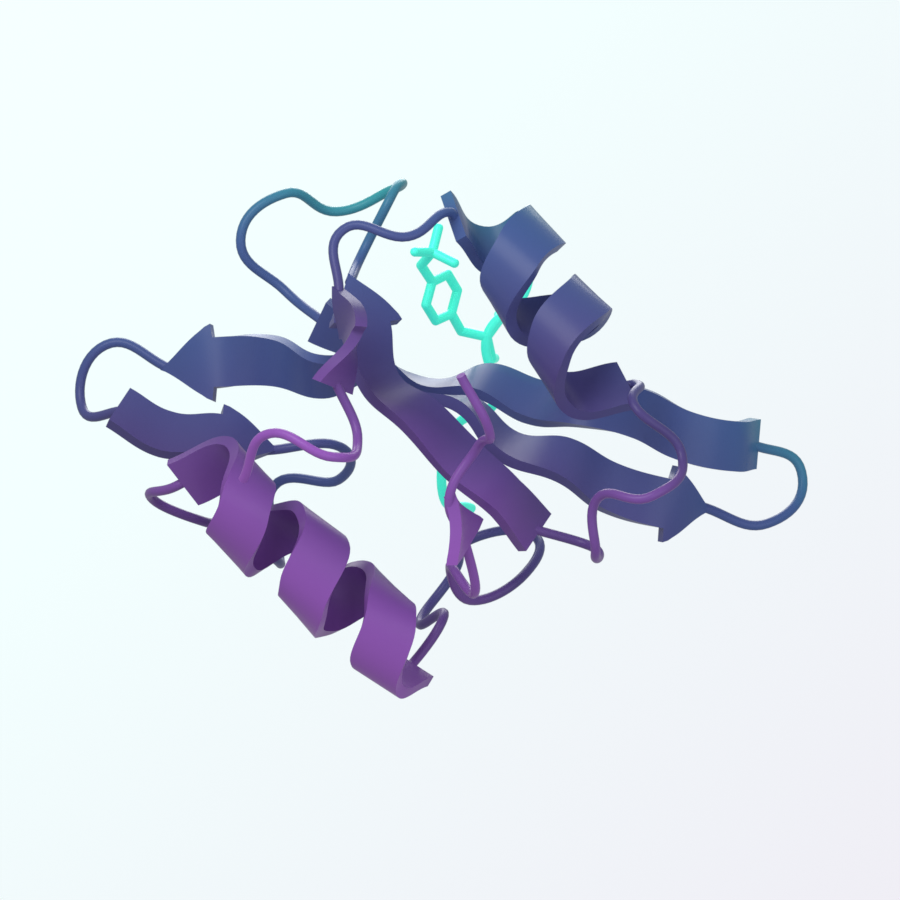
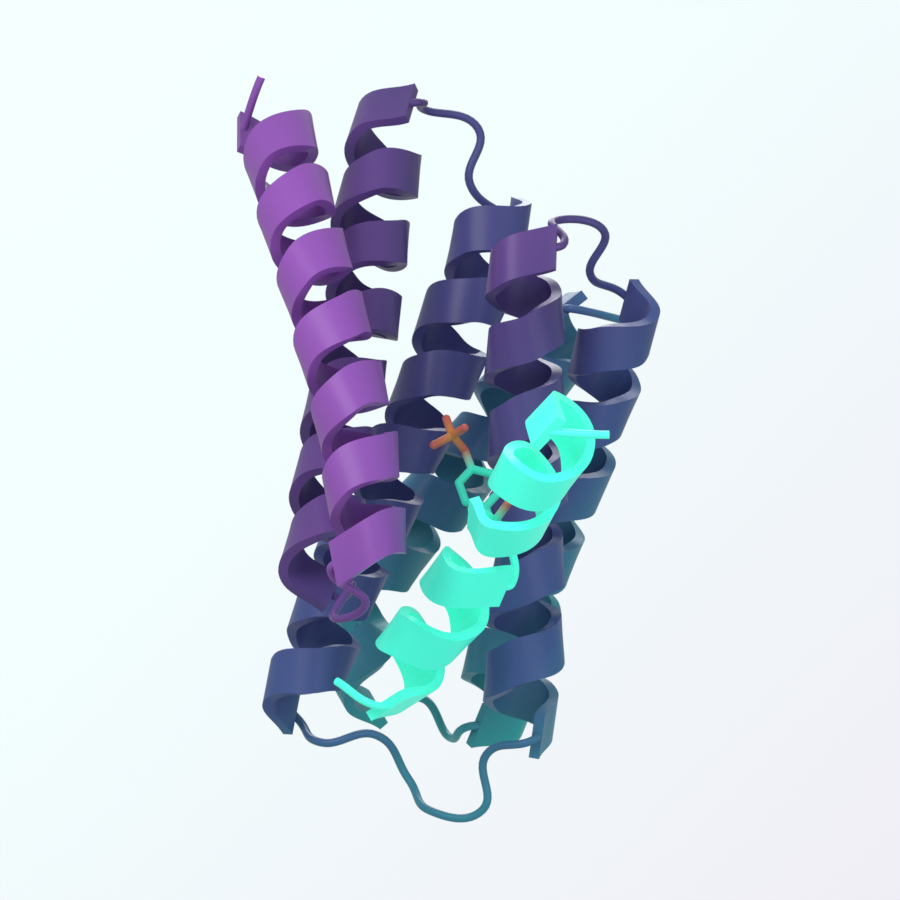
docs(presets): show Northern Nights variants in the selected STAT orientation

Changed region(s): [[0.0622, 0.0933, 0.9022, 0.9333]]

diff --git a/docs/reference-presets.md b/docs/reference-presets.md
@@ -1,6 +1,6 @@
 # Reference presets
 
-Eight additional JSON presets extend the existing renderer. The six original preset identifiers and JSON files remain unchanged. PNG remains the default; `--save-blend` or `output.save_blend=true` explicitly requests a scene. The [example gallery metadata](../examples/presets/gallery.json) shows all 16 choices using actual local Blender renders of public structures.
+Eight additional JSON presets extend the existing renderer. The six original preset identifiers and JSON files remain unchanged. PNG remains the default; `--save-blend` or `output.save_blend=true` explicitly requests a scene. The [example gallery metadata](../examples/presets/gallery.json) shows all 17 choices using actual local Blender renders; source provenance is recorded for each example.
 
 | Reference | Preset / alias | Example | Match and scope |
 |---|---|---|---|
@@ -30,7 +30,7 @@ blender-render render structure.cif --preset neon_duplex_hero --no-preserve-view
 blender-render render pose.pse --style-json edited-style.json -o custom.png
 ```
 
-Named presets preserve the input pose by default. `--no-preserve-view` selects the preset's authored camera; explicit camera overrides and full JSON retain their requested settings. Some styles use `direction_source=pymol`, so the initial orientation still matters. The gallery metadata stores the public example view and exact render dimensions; a preset alone cannot imply the same pose for an unrelated structure. Full JSON and preset-plus-overrides share the same resolver. Objects merge recursively; arrays such as `styles` replace in full.
+Named presets preserve the input pose by default. `--no-preserve-view` selects the preset's authored camera; explicit camera overrides and full JSON retain their requested settings. Some styles use `direction_source=pymol`, so the initial orientation still matters. The gallery metadata stores each example view and exact render dimensions; a preset alone cannot imply the same pose for an unrelated structure. Full JSON and preset-plus-overrides share the same resolver. Objects merge recursively; arrays such as `styles` replace in full.
 
 The same installed PyMOL is used throughout. Its `pymol2` API creates isolated instances for file export; rendering from the running PyMOL application uses `cmd` directly. These changes do not add a second PyMOL dependency or replace the application's session.
 
@@ -58,9 +58,10 @@ All controls use the existing schema and scene builder. Unsupported keys, zero g
 ## Evidence
 
 See [local validation](validation.md) for checks executed on this branch.
-[Gallery metadata](../examples/presets/gallery.json) retains the upstream public
-coordinate URLs/hashes, preset hashes, views, sizes and image hashes. Those gallery
-assets are historical examples, not newly verified renders from this branch.
+[Gallery metadata](../examples/presets/gallery.json) retains source provenance,
+preset hashes, views, sizes and image hashes. Public examples include coordinate
+URLs/hashes; the user-selected STAT previews exclude their molecular source files.
+Validation dates and scope are recorded separately for each addition.
 
 Use the configured Molecular Nodes environment and pinned CCD. A successful
 local render does not by itself verify image display in Claude or Codex.
@@ -91,28 +92,45 @@ The gallery preserves the approved 840×650, 128-sample render. The preset is
 available as `cyan_candy_mesh` or `builtin/cyan_candy_mesh`; it is distinct from
 any personal `user/cyan_candy_mesh` copy.
 
-## Northern Nights
+## Northern Nights: bright ribbons and dark cutaway
 
-`northern_nights` adapts the Northern Nights paper-render look: satin teal,
-midnight-blue, violet and purple ribbon cartoons, luminous mint peptide/sticks,
-and a pale mint/lavender diagonal background. The gallery uses public **1SPS**,
-with its saved example pose; no private research structure or animation is included.
+Two separate presets share the Northern Nights palette and element coloring:
+
+- `northern_nights`: satin teal/blue/violet protein ribbons and a luminous mint
+  peptide on a bright mint/lavender background.
+- `northern_nights_cutaway`: the same molecular colors with a protein surface
+  cutaway, nearby residue sticks and a black background.
+
+The README previews use the user-selected STAT example and the viewing direction
+from its supplied rocking animation, fitted to show the complete complex rather
+than the reference close-up crop. Molecular coordinates, sessions, source
+animations and private paths are not included. The previews replace the earlier
+1SPS demonstration; no public PDB identity is asserted for the selected example.
 
 ```sh
-blender-render render prepared-pose.pse --preset northern_nights -o northern-nights.png
-# Optional rigid turntable, not a molecular trajectory:
-blender-render render prepared-pose.pse --preset northern_nights --animation 360 -o northern-nights.gif
+blender-render render prepared-pose.pse --preset northern_nights -o bright.png
+blender-render render prepared-pose.pse --preset northern_nights_cutaway -o cutaway.png
 ```
 
-In PyMOL, use `blender_render preset=northern_nights`. Chain D is the mint peptide
-in the public example; other protein chains receive the teal-to-purple spatial
-gradient. Phosphoresidues PTR/SEP/TPO are also shown as mint sticks, excluding
-backbone N/C/O. For other complexes, edit both cartoon selection queries to
-choose the intended peptide chain. Colors are encoded for the renderer's linear
-shader inputs; they need not resemble the display palette as hexadecimal swatches.
+In PyMOL, use `blender_render preset=northern_nights` or
+`blender_render preset=northern_nights_cutaway`. Chain B is the mint peptide;
+other protein chains receive the spatial teal-to-purple gradient. Adapt the
+cartoon and surface selections together for another complex. The cutaway needs
+a valid ligand/phosphoresidue anchor and suitable pocket dimensions; it is not
+an automatic identification of a binding site. It cuts only the surface, keeping
+the peptide cartoon intact. A 5 Å neighborhood selects complete pocket residues.
 
-This portable preset uses the shared renderer only. Its spatial gradient and
-native glow approximate the original residue-by-residue coloring and custom
-Gaussian emission halo. It does not add the original scene's computed hydrogen
-bond guides, custom atom-color emission, or paper-specific topology patches.
-It is a reusable style adaptation, not an exact recreation of that scene.
+PTR/SEP/TPO sidechain sticks include Cα but exclude backbone N/C/O. Carbon is
+mint, nitrogen blue, oxygen red, sulfur gold and phosphorus orange. The sticks
+use `ElementColor` without uniform mint emission, preserving their element
+colors; the peptide cartoon retains mint glow. In the selected STAT input,
+PTR B11 has one Cα and both peptide bonds (GLY 10 → PTR 11 → VAL 12).
+The saved Blender atom mesh also retains both bonds, one Cα, and peptide/cartoon
+selection membership for PTR B11. This does not establish rendered continuity for
+every PTR/TPO/SEP input; those residues must remain part of the input chain.
+
+These presets use the shared renderer. The spatial gradient/native glow
+approximate the original residue-by-residue colors/custom Gaussian halo. Custom
+hydrogen-bond dashes, atom-color emission and paper-specific topology patches
+are not included. No molecular coordinates are rearranged. Shader palette values
+are encoded for linear inputs, so the JSON swatches differ from display colors.

diff --git a/README.md b/README.md
@@ -13,7 +13,7 @@ structure. To preserve the protein's geometry, keep the rendered protein intact
 and let AI build the scene around it. If the generator redraws the protein, check
 it against the original render.
 
-Start with one of the 16 [built-in presets](#preset-gallery), from soft pastel
+Start with one of the 17 [built-in presets](#preset-gallery), from soft pastel
 ribbons to frosted surfaces and vivid binding-site views. If you have a PNG with a
 style you love, the [recreate-render-preset skill](#claude-code-and-codex) can use it
 as a visual reference, refine the look through local previews and save a reusable
@@ -133,7 +133,8 @@ See [preset details](docs/reference-presets.md) and the
 | [ivory_lime_frosted](blender_render/style_preset_ivory_lime_frosted.json) | Ivory frosted grid shell, lime core and cyan nucleic acids. | [<img src="examples/presets/ivory_lime_frosted.png" alt="ivory_lime_frosted preview" width="220">](examples/presets/ivory_lime_frosted.png) |
 | [neon_duplex_hero](blender_render/style_preset_neon_duplex_hero.json) | Green protein and gradient nucleic acids against a pink-cyan background. | [<img src="examples/presets/neon_duplex_hero.png" alt="neon_duplex_hero preview" width="220">](examples/presets/neon_duplex_hero.png) |
 | [cyan_candy_mesh](blender_render/style_preset_cyan_candy_mesh.json) | Glossy cyan blobs, recessed blue mesh, and neon pink/yellow helical tubes. A/B surfaces, C/D tubes. | [<img src="examples/presets/cyan_candy_mesh.png" alt="cyan_candy_mesh preview" width="220">](examples/presets/cyan_candy_mesh.png) |
-| [northern_nights](blender_render/style_preset_northern_nights.json) | Teal, midnight-blue and violet ribbons with a luminous mint peptide. [Selection details](docs/reference-presets.md#northern-nights). | [<img src="examples/presets/northern_nights.png" alt="Northern Nights preview" width="220">](examples/presets/northern_nights.png) |
+| [northern_nights](blender_render/style_preset_northern_nights.json) | Teal, midnight-blue and violet ribbons with a luminous mint peptide. [Selection details](docs/reference-presets.md#northern-nights-bright-ribbons-and-dark-cutaway). | [<img src="examples/presets/northern_nights.png" alt="Northern Nights preview" width="220">](examples/presets/northern_nights.png) |
+| [northern_nights_cutaway](blender_render/style_preset_northern_nights_cutaway.json) | Northern Nights cutaway surface and element-colored pocket sticks on black. | [<img src="examples/presets/northern_nights_cutaway.png" alt="Northern Nights cutaway preview" width="220">](examples/presets/northern_nights_cutaway.png) |
 | [dried_paint_green](blender_render/style_preset_dried_paint_green.json) | Textured matte green paint with rounded ribbon edges. | [<img src="examples/presets/dried_paint_green.png" alt="dried_paint_green preview" width="220">](examples/presets/dried_paint_green.png) |
 
 ```sh

diff --git a/docs/validation.md b/docs/validation.md
@@ -1118,3 +1118,36 @@ passed. Refreshed the Structure Studio plugin catalog. Full source tests:
 **492 passed, 50 skipped**. No desktop Blender session or running cluster service
 was modified; no animation execution was newly validated. Local evidence is
 retained in ignored `renders/style-onboarding/northern_nights/` artifacts.
+
+## Northern Nights STAT previews and cutaway (2026-11-04)
+
+Kept two separate presets: bright `northern_nights` ribbons and black
+`northern_nights_cutaway` with an isolated protein surface cut and complete
+nearby residue sticks. Both select chain B as the mint peptide. PTR/SEP/TPO
+sticks now use an explicit element palette and `ElementColor`, with uniform
+mint emission disabled on those sticks. The shared renderer is unchanged.
+
+Replaced the earlier 1SPS gallery example with the user-selected STAT input.
+Inspected the supplied animation frame and its saved scene, then transferred
+its viewing direction relative to the molecule. Corrected a transposed camera
+matrix after inspecting the first renders. Both final 900×900, 96-sample CPU
+renders loaded the built-in preset in fresh Blender processes and were visually
+inspected against the references. Framing fits the whole complex rather than
+copying the reference's close-up crop. Manifests confirm CIF-first export, DSS,
+Blender 5.0.1 and Molecular Nodes 4.5.10; the cutaway manifest confirms a
+camera-oriented cut applied to the isolated surface. The presets approximate
+the source spatial colors/glow and omit its custom hydrogen-bond dashes.
+
+For PTR B11, the selected PyMOL source contains one Cα and both boundary bonds:
+GLY 10 C → PTR 11 N and PTR 11 C → VAL 12 N. Reopening the saved bright Blender
+scene with scripts disabled also confirmed one Cα, peptide/cartoon selection
+membership and both boundary edges in its atom mesh. This is evidence for this
+input, not a general TPO/SEP render-continuity test.
+
+Full source suite: **494 passed, 50 skipped**. Built a wheel and installed it in
+a fresh environment outside the checkout; both preset aliases, JSON equality,
+schema validation, the 17-entry catalog and unchanged default preset passed.
+Refreshed the Structure Studio catalog and gallery hashes. No desktop window
+was launched and no cluster deployment or Slurm execution was changed. Molecular
+coordinates, sessions, source animations and private paths remain outside tracked
+files; only the requested presets and newly rendered previews are included.
